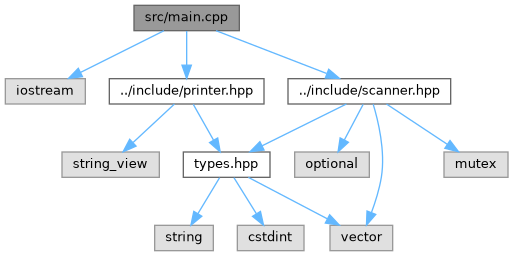
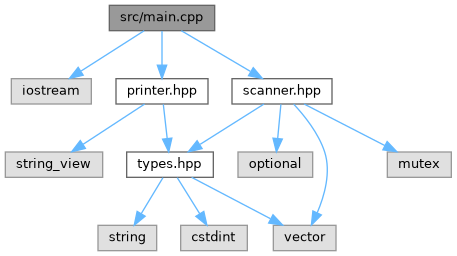
deploy: cdeff2e492ddc5ab5e8fb007a3ab0ef423537df7

diff --git a/main_8cpp.html b/main_8cpp.html
@@ -80,8 +80,8 @@ $(function() {
 </div><!--header-->
 <div class="contents">
 <div class="textblock"><code>#include &lt;iostream&gt;</code><br />
-<code>#include &quot;<a class="el" href="printer_8hpp_source.html">../include/printer.hpp</a>&quot;</code><br />
-<code>#include &quot;<a class="el" href="scanner_8hpp_source.html">../include/scanner.hpp</a>&quot;</code><br />
+<code>#include &quot;<a class="el" href="printer_8hpp_source.html">printer.hpp</a>&quot;</code><br />
+<code>#include &quot;<a class="el" href="scanner_8hpp_source.html">scanner.hpp</a>&quot;</code><br />
 </div><div class="textblock"><div id="dynsection-0" onclick="return toggleVisibility(this)" class="dynheader closed" style="cursor:pointer;">
   <img id="dynsection-0-trigger" src="closed.png" alt="+"/> Include dependency graph for main.cpp:</div>
 <div id="dynsection-0-summary" class="dynsummary" style="display:block;">
@@ -89,29 +89,29 @@ $(function() {
 <div id="dynsection-0-content" class="dyncontent" style="display:none;">
 <div class="center"><img src="main_8cpp__incl.png" border="0" usemap="#asrc_2main_8cpp" alt=""/></div>
 <map name="asrc_2main_8cpp" id="asrc_2main_8cpp">
-<area shape="rect" title=" " alt="" coords="134,5,239,31"/>
-<area shape="rect" title=" " alt="" coords="5,79,85,104"/>
-<area shape="poly" title=" " alt="" coords="165,33,82,75,79,70,163,28"/>
-<area shape="rect" href="printer_8hpp.html" title=" " alt="" coords="109,79,264,104"/>
-<area shape="poly" title=" " alt="" coords="189,31,189,65,184,65,184,31"/>
-<area shape="rect" href="scanner_8hpp.html" title=" " alt="" coords="288,79,451,104"/>
-<area shape="poly" title=" " alt="" coords="217,28,328,71,326,76,215,33"/>
-<area shape="rect" title=" " alt="" coords="62,152,159,177"/>
-<area shape="poly" title=" " alt="" coords="176,106,135,144,131,141,173,102"/>
-<area shape="rect" href="types_8hpp.html" title=" " alt="" coords="183,152,270,177"/>
-<area shape="poly" title=" " alt="" coords="196,103,216,139,211,141,191,106"/>
-<area shape="rect" title=" " alt="" coords="330,225,393,251"/>
-<area shape="poly" title=" " alt="" coords="250,175,328,216,326,221,247,180"/>
-<area shape="rect" title=" " alt="" coords="155,225,213,251"/>
-<area shape="poly" title=" " alt="" coords="222,179,200,215,196,212,217,176"/>
-<area shape="rect" title=" " alt="" coords="237,225,304,251"/>
-<area shape="poly" title=" " alt="" coords="236,176,259,212,254,215,232,179"/>
-<area shape="poly" title=" " alt="" coords="348,106,263,148,261,143,345,102"/>
-<area shape="poly" title=" " alt="" coords="376,104,383,137,384,178,374,213,369,212,379,177,378,137,371,105"/>
-<area shape="rect" title=" " alt="" coords="444,152,508,177"/>
-<area shape="poly" title=" " alt="" coords="388,102,449,142,446,147,385,106"/>
-<area shape="rect" title=" " alt="" coords="295,152,369,177"/>
-<area shape="poly" title=" " alt="" coords="366,106,347,141,342,139,361,103"/>
+<area shape="rect" title=" " alt="" coords="109,5,215,31"/>
+<area shape="rect" title=" " alt="" coords="11,79,91,104"/>
+<area shape="poly" title=" " alt="" coords="146,33,83,73,80,69,143,28"/>
+<area shape="rect" href="printer_8hpp.html" title=" " alt="" coords="116,79,208,104"/>
+<area shape="poly" title=" " alt="" coords="165,31,165,65,159,65,159,31"/>
+<area shape="rect" href="scanner_8hpp.html" title=" " alt="" coords="232,79,332,104"/>
+<area shape="poly" title=" " alt="" coords="183,28,252,69,249,74,180,33"/>
+<area shape="rect" title=" " alt="" coords="5,152,103,177"/>
+<area shape="poly" title=" " alt="" coords="146,106,85,147,82,142,143,102"/>
+<area shape="rect" href="types_8hpp.html" title=" " alt="" coords="127,152,213,177"/>
+<area shape="poly" title=" " alt="" coords="166,104,170,138,165,139,161,105"/>
+<area shape="rect" title=" " alt="" coords="273,225,336,251"/>
+<area shape="poly" title=" " alt="" coords="193,175,272,216,269,221,190,180"/>
+<area shape="rect" title=" " alt="" coords="98,225,157,251"/>
+<area shape="poly" title=" " alt="" coords="165,179,143,215,139,212,161,176"/>
+<area shape="rect" title=" " alt="" coords="181,225,247,251"/>
+<area shape="poly" title=" " alt="" coords="180,176,202,212,197,215,175,179"/>
+<area shape="poly" title=" " alt="" coords="265,106,202,147,199,142,263,102"/>
+<area shape="poly" title=" " alt="" coords="296,102,313,124,327,151,330,167,329,184,320,214,315,212,323,183,325,168,322,153,309,127,292,106"/>
+<area shape="rect" title=" " alt="" coords="387,152,451,177"/>
+<area shape="poly" title=" " alt="" coords="305,102,386,143,384,148,303,106"/>
+<area shape="rect" title=" " alt="" coords="238,152,313,177"/>
+<area shape="poly" title=" " alt="" coords="284,105,280,139,275,138,278,104"/>
 </map>
 </div>
 </div>
@@ -172,7 +172,7 @@ Functions</h2></td></tr>
 </div><!-- contents -->
 <!-- start footer part -->
 <hr class="footer"/><address class="footer"><small>
-Generated on Mon Sep 22 2025 06:30:53 for Port Scanner by&#160;<a href="https://www.doxygen.org/index.html"><img class="footer" src="doxygen.svg" width="104" height="31" alt="doxygen"/></a> 1.9.8
+Generated on Thu Sep 25 2025 06:17:46 for Port Scanner by&#160;<a href="https://www.doxygen.org/index.html"><img class="footer" src="doxygen.svg" width="104" height="31" alt="doxygen"/></a> 1.9.8
 </small></address>
 </body>
 </html>

diff --git a/scanner_8cpp.html b/scanner_8cpp.html
@@ -77,7 +77,7 @@ $(function() {
   <div class="headertitle"><div class="title">scanner.cpp File Reference</div></div>
 </div><!--header-->
 <div class="contents">
-<div class="textblock"><code>#include &quot;<a class="el" href="scanner_8hpp_source.html">../include/scanner.hpp</a>&quot;</code><br />
+<div class="textblock"><code>#include &quot;<a class="el" href="scanner_8hpp_source.html">scanner.hpp</a>&quot;</code><br />
 <code>#include &lt;charconv&gt;</code><br />
 <code>#include &lt;stdexcept&gt;</code><br />
 <code>#include &lt;thread&gt;</code><br />
@@ -94,27 +94,27 @@ $(function() {
 <div id="dynsection-0-content" class="dyncontent" style="display:none;">
 <div class="center"><img src="scanner_8cpp__incl.png" border="0" usemap="#asrc_2scanner_8cpp" alt=""/></div>
 <map name="asrc_2scanner_8cpp" id="asrc_2scanner_8cpp">
-<area shape="rect" title=" " alt="" coords="603,5,725,31"/>
-<area shape="rect" href="scanner_8hpp.html" title=" " alt="" coords="87,79,249,104"/>
-<area shape="poly" title=" " alt="" coords="603,31,262,79,261,74,602,26"/>
-<area shape="rect" title=" " alt="" coords="274,79,355,104"/>
-<area shape="poly" title=" " alt="" coords="607,33,369,81,368,76,606,28"/>
-<area shape="rect" title=" " alt="" coords="379,79,466,104"/>
-<area shape="poly" title=" " alt="" coords="626,33,476,77,474,72,624,28"/>
-<area shape="rect" title=" " alt="" coords="491,79,555,104"/>
-<area shape="poly" title=" " alt="" coords="642,33,559,75,557,70,640,28"/>
-<area shape="rect" title=" " alt="" coords="579,79,645,104"/>
-<area shape="poly" title=" " alt="" coords="658,33,631,69,626,66,653,29"/>
-<area shape="rect" title=" " alt="" coords="670,79,762,104"/>
-<area shape="poly" title=" " alt="" coords="675,29,702,66,697,69,670,33"/>
-<area shape="rect" title=" " alt="" coords="786,79,849,104"/>
-<area shape="poly" title=" " alt="" coords="690,28,781,70,779,75,688,33"/>
-<area shape="rect" title=" " alt="" coords="873,79,943,104"/>
-<area shape="poly" title=" " alt="" coords="704,28,860,73,859,79,702,33"/>
-<area shape="rect" title=" " alt="" coords="967,79,1070,104"/>
-<area shape="poly" title=" " alt="" coords="722,28,954,74,953,80,720,33"/>
-<area shape="rect" title=" " alt="" coords="1095,79,1191,104"/>
-<area shape="poly" title=" " alt="" coords="726,25,1081,76,1080,81,725,30"/>
+<area shape="rect" title=" " alt="" coords="571,5,693,31"/>
+<area shape="rect" href="scanner_8hpp.html" title=" " alt="" coords="118,79,218,104"/>
+<area shape="poly" title=" " alt="" coords="571,30,232,81,231,76,570,25"/>
+<area shape="rect" title=" " alt="" coords="242,79,323,104"/>
+<area shape="poly" title=" " alt="" coords="575,33,337,81,336,76,574,28"/>
+<area shape="rect" title=" " alt="" coords="347,79,434,104"/>
+<area shape="poly" title=" " alt="" coords="594,33,444,77,442,72,592,28"/>
+<area shape="rect" title=" " alt="" coords="459,79,523,104"/>
+<area shape="poly" title=" " alt="" coords="610,33,527,75,525,70,608,28"/>
+<area shape="rect" title=" " alt="" coords="547,79,613,104"/>
+<area shape="poly" title=" " alt="" coords="626,33,599,69,594,66,621,29"/>
+<area shape="rect" title=" " alt="" coords="638,79,730,104"/>
+<area shape="poly" title=" " alt="" coords="643,29,670,66,665,69,638,33"/>
+<area shape="rect" title=" " alt="" coords="754,79,817,104"/>
+<area shape="poly" title=" " alt="" coords="658,28,749,70,747,75,656,33"/>
+<area shape="rect" title=" " alt="" coords="841,79,911,104"/>
+<area shape="poly" title=" " alt="" coords="672,28,828,73,827,79,670,33"/>
+<area shape="rect" title=" " alt="" coords="935,79,1038,104"/>
+<area shape="poly" title=" " alt="" coords="690,28,922,74,921,80,688,33"/>
+<area shape="rect" title=" " alt="" coords="1063,79,1159,104"/>
+<area shape="poly" title=" " alt="" coords="694,25,1049,76,1048,81,693,30"/>
 <area shape="rect" title=" " alt="" coords="5,152,69,177"/>
 <area shape="poly" title=" " alt="" coords="148,106,72,148,69,143,146,102"/>
 <area shape="rect" title=" " alt="" coords="93,152,168,177"/>
@@ -135,7 +135,7 @@ $(function() {
 </div><!-- contents -->
 <!-- start footer part -->
 <hr class="footer"/><address class="footer"><small>
-Generated on Mon Sep 22 2025 06:30:53 for Port Scanner by&#160;<a href="https://www.doxygen.org/index.html"><img class="footer" src="doxygen.svg" width="104" height="31" alt="doxygen"/></a> 1.9.8
+Generated on Thu Sep 25 2025 06:17:46 for Port Scanner by&#160;<a href="https://www.doxygen.org/index.html"><img class="footer" src="doxygen.svg" width="104" height="31" alt="doxygen"/></a> 1.9.8
 </small></address>
 </body>
 </html>

diff --git a/scanner_8cpp_source.html b/scanner_8cpp_source.html
@@ -82,7 +82,7 @@ $(document).ready(function() { init_codefold(0); });
   <div class="headertitle"><div class="title">scanner.cpp</div></div>
 </div><!--header-->
 <div class="contents">
-<a href="scanner_8cpp.html">Go to the documentation of this file.</a><div class="fragment"><div class="line"><a id="l00001" name="l00001"></a><span class="lineno">    1</span><span class="preprocessor">#include &quot;../include/scanner.hpp&quot;</span></div>
+<a href="scanner_8cpp.html">Go to the documentation of this file.</a><div class="fragment"><div class="line"><a id="l00001" name="l00001"></a><span class="lineno">    1</span><span class="preprocessor">#include &quot;<a class="code" href="scanner_8hpp.html">scanner.hpp</a>&quot;</span></div>
 <div class="line"><a id="l00002" name="l00002"></a><span class="lineno">    2</span> </div>
 <div class="line"><a id="l00003" name="l00003"></a><span class="lineno">    3</span><span class="preprocessor">#include &lt;charconv&gt;</span></div>
 <div class="line"><a id="l00004" name="l00004"></a><span class="lineno">    4</span><span class="preprocessor">#include &lt;stdexcept&gt;</span></div>
@@ -202,13 +202,14 @@ $(document).ready(function() { init_codefold(0); });
 <div class="ttc" id="aclassScanner_html_acef562247c88bd0ff7cba0c3cc9c85f4"><div class="ttname"><a href="classScanner.html#acef562247c88bd0ff7cba0c3cc9c85f4">Scanner::Scanner</a></div><div class="ttdeci">Scanner(ipaddr_t const &amp;ip, std::vector&lt; char const * &gt; const &amp;ports)</div><div class="ttdoc">Constructs a Scanner with a target IP address and a vector of ports to scan.</div><div class="ttdef"><b>Definition</b> <a href="scanner_8cpp_source.html#l00015">scanner.cpp:15</a></div></div>
 <div class="ttc" id="aclassScanner_html_af9f6c2887e61333d36bf9771a13ba67f"><div class="ttname"><a href="classScanner.html#af9f6c2887e61333d36bf9771a13ba67f">Scanner::m_ip</a></div><div class="ttdeci">ipaddr_t m_ip</div><div class="ttdoc">Target IP address.</div><div class="ttdef"><b>Definition</b> <a href="scanner_8hpp_source.html#l00055">scanner.hpp:55</a></div></div>
 <div class="ttc" id="anamespaceanonymous__namespace_02scanner_8hpp_03_html_a8f744bb386006bea6840b73769c66f62"><div class="ttname"><a href="namespaceanonymous__namespace_02scanner_8hpp_03.html#a8f744bb386006bea6840b73769c66f62">anonymous_namespace{scanner.hpp}::TIMEOUT_MS</a></div><div class="ttdeci">int constexpr TIMEOUT_MS</div><div class="ttdoc">Timeout in milliseconds for socket connection attempts.</div><div class="ttdef"><b>Definition</b> <a href="scanner_8hpp_source.html#l00010">scanner.hpp:10</a></div></div>
+<div class="ttc" id="ascanner_8hpp_html"><div class="ttname"><a href="scanner_8hpp.html">scanner.hpp</a></div></div>
 <div class="ttc" id="atypes_8hpp_html_a5a82291375f2f68b53a652f6f2ab74b1"><div class="ttname"><a href="types_8hpp.html#a5a82291375f2f68b53a652f6f2ab74b1">ports_t</a></div><div class="ttdeci">std::vector&lt; port_t &gt; ports_t</div><div class="ttdoc">Vector of ports type.</div><div class="ttdef"><b>Definition</b> <a href="types_8hpp_source.html#l00010">types.hpp:10</a></div></div>
 <div class="ttc" id="atypes_8hpp_html_a74951a78c122c2c9903f64726a56aac6"><div class="ttname"><a href="types_8hpp.html#a74951a78c122c2c9903f64726a56aac6">port_t</a></div><div class="ttdeci">uint16_t port_t</div><div class="ttdoc">Port number type.</div><div class="ttdef"><b>Definition</b> <a href="types_8hpp_source.html#l00009">types.hpp:9</a></div></div>
 <div class="ttc" id="atypes_8hpp_html_ae7690576a8d3893435294d25def55c48"><div class="ttname"><a href="types_8hpp.html#ae7690576a8d3893435294d25def55c48">ipaddr_t</a></div><div class="ttdeci">std::string ipaddr_t</div><div class="ttdoc">IP address type.</div><div class="ttdef"><b>Definition</b> <a href="types_8hpp_source.html#l00008">types.hpp:8</a></div></div>
 </div><!-- fragment --></div><!-- contents -->
 <!-- start footer part -->
 <hr class="footer"/><address class="footer"><small>
-Generated on Mon Sep 22 2025 06:30:53 for Port Scanner by&#160;<a href="https://www.doxygen.org/index.html"><img class="footer" src="doxygen.svg" width="104" height="31" alt="doxygen"/></a> 1.9.8
+Generated on Thu Sep 25 2025 06:17:46 for Port Scanner by&#160;<a href="https://www.doxygen.org/index.html"><img class="footer" src="doxygen.svg" width="104" height="31" alt="doxygen"/></a> 1.9.8
 </small></address>
 </body>
 </html>

diff --git a/main_8cpp_source.html b/main_8cpp_source.html
@@ -84,8 +84,8 @@ $(document).ready(function() { init_codefold(0); });
 <div class="contents">
 <a href="main_8cpp.html">Go to the documentation of this file.</a><div class="fragment"><div class="line"><a id="l00001" name="l00001"></a><span class="lineno">    1</span><span class="preprocessor">#include &lt;iostream&gt;</span></div>
 <div class="line"><a id="l00002" name="l00002"></a><span class="lineno">    2</span> </div>
-<div class="line"><a id="l00003" name="l00003"></a><span class="lineno">    3</span><span class="preprocessor">#include &quot;../include/printer.hpp&quot;</span></div>
-<div class="line"><a id="l00004" name="l00004"></a><span class="lineno">    4</span><span class="preprocessor">#include &quot;../include/scanner.hpp&quot;</span></div>
+<div class="line"><a id="l00003" name="l00003"></a><span class="lineno">    3</span><span class="preprocessor">#include &quot;<a class="code" href="printer_8hpp.html">printer.hpp</a>&quot;</span></div>
+<div class="line"><a id="l00004" name="l00004"></a><span class="lineno">    4</span><span class="preprocessor">#include &quot;<a class="code" href="scanner_8hpp.html">scanner.hpp</a>&quot;</span></div>
 <div class="line"><a id="l00005" name="l00005"></a><span class="lineno">    5</span> </div>
 <div class="foldopen" id="foldopen00006" data-start="{" data-end="}">
 <div class="line"><a id="l00006" name="l00006"></a><span class="lineno"><a class="line" href="main_8cpp.html#a0ddf1224851353fc92bfbff6f499fa97">    6</a></span><span class="keywordtype">int</span> <a class="code hl_function" href="main_8cpp.html#a0ddf1224851353fc92bfbff6f499fa97">main</a>(<span class="keywordtype">int</span> argc, <span class="keywordtype">char</span> *argv[]) {</div>
@@ -120,11 +120,13 @@ $(document).ready(function() { init_codefold(0); });
 <div class="ttc" id="aclassPrinter_html_a07386ac3a06a838329a1dbb49b5add69"><div class="ttname"><a href="classPrinter.html#a07386ac3a06a838329a1dbb49b5add69">Printer::print</a></div><div class="ttdeci">static void print(std::vector&lt; std::pair&lt; port_t, bool &gt; &gt; const &amp;ports)</div><div class="ttdoc">Prints to stdout the formated information about the ports accessibility.</div><div class="ttdef"><b>Definition</b> <a href="printer_8cpp_source.html#l00011">printer.cpp:11</a></div></div>
 <div class="ttc" id="aclassScanner_html"><div class="ttname"><a href="classScanner.html">Scanner</a></div><div class="ttdef"><b>Definition</b> <a href="scanner_8hpp_source.html#l00021">scanner.hpp:21</a></div></div>
 <div class="ttc" id="amain_8cpp_html_a0ddf1224851353fc92bfbff6f499fa97"><div class="ttname"><a href="main_8cpp.html#a0ddf1224851353fc92bfbff6f499fa97">main</a></div><div class="ttdeci">int main(int argc, char *argv[])</div><div class="ttdef"><b>Definition</b> <a href="main_8cpp_source.html#l00006">main.cpp:6</a></div></div>
+<div class="ttc" id="aprinter_8hpp_html"><div class="ttname"><a href="printer_8hpp.html">printer.hpp</a></div></div>
+<div class="ttc" id="ascanner_8hpp_html"><div class="ttname"><a href="scanner_8hpp.html">scanner.hpp</a></div></div>
 <div class="ttc" id="atypes_8hpp_html_ae7690576a8d3893435294d25def55c48"><div class="ttname"><a href="types_8hpp.html#ae7690576a8d3893435294d25def55c48">ipaddr_t</a></div><div class="ttdeci">std::string ipaddr_t</div><div class="ttdoc">IP address type.</div><div class="ttdef"><b>Definition</b> <a href="types_8hpp_source.html#l00008">types.hpp:8</a></div></div>
 </div><!-- fragment --></div><!-- contents -->
 <!-- start footer part -->
 <hr class="footer"/><address class="footer"><small>
-Generated on Mon Sep 22 2025 06:30:53 for Port Scanner by&#160;<a href="https://www.doxygen.org/index.html"><img class="footer" src="doxygen.svg" width="104" height="31" alt="doxygen"/></a> 1.9.8
+Generated on Thu Sep 25 2025 06:17:46 for Port Scanner by&#160;<a href="https://www.doxygen.org/index.html"><img class="footer" src="doxygen.svg" width="104" height="31" alt="doxygen"/></a> 1.9.8
 </small></address>
 </body>
 </html>

diff --git a/printer_8cpp_source.html b/printer_8cpp_source.html
@@ -82,7 +82,7 @@ $(document).ready(function() { init_codefold(0); });
   <div class="headertitle"><div class="title">printer.cpp</div></div>
 </div><!--header-->
 <div class="contents">
-<a href="printer_8cpp.html">Go to the documentation of this file.</a><div class="fragment"><div class="line"><a id="l00001" name="l00001"></a><span class="lineno">    1</span><span class="preprocessor">#include &quot;../include/printer.hpp&quot;</span></div>
+<a href="printer_8cpp.html">Go to the documentation of this file.</a><div class="fragment"><div class="line"><a id="l00001" name="l00001"></a><span class="lineno">    1</span><span class="preprocessor">#include &quot;<a class="code" href="printer_8hpp.html">printer.hpp</a>&quot;</span></div>
 <div class="line"><a id="l00002" name="l00002"></a><span class="lineno">    2</span> </div>
 <div class="line"><a id="l00003" name="l00003"></a><span class="lineno">    3</span><span class="preprocessor">#include &lt;print&gt;</span></div>
 <div class="line"><a id="l00004" name="l00004"></a><span class="lineno">    4</span> </div>
@@ -113,10 +113,11 @@ $(document).ready(function() { init_codefold(0); });
 <div class="ttc" id="anamespaceanonymous__namespace_02printer_8hpp_03_html_a4b80f77ce431d4b9057292d99edb8be0"><div class="ttname"><a href="namespaceanonymous__namespace_02printer_8hpp_03.html#a4b80f77ce431d4b9057292d99edb8be0">anonymous_namespace{printer.hpp}::RED</a></div><div class="ttdeci">std::string_view constexpr RED</div><div class="ttdoc">ANSI escape code for red text color.</div><div class="ttdef"><b>Definition</b> <a href="printer_8hpp_source.html#l00016">printer.hpp:16</a></div></div>
 <div class="ttc" id="anamespaceanonymous__namespace_02printer_8hpp_03_html_a9549ef75431543971e79ea91e5f68130"><div class="ttname"><a href="namespaceanonymous__namespace_02printer_8hpp_03.html#a9549ef75431543971e79ea91e5f68130">anonymous_namespace{printer.hpp}::GREEN</a></div><div class="ttdeci">std::string_view constexpr GREEN</div><div class="ttdoc">ANSI escape code for green text color.</div><div class="ttdef"><b>Definition</b> <a href="printer_8hpp_source.html#l00021">printer.hpp:21</a></div></div>
 <div class="ttc" id="anamespaceanonymous__namespace_02printer_8hpp_03_html_aa4262232780e639fd9cb7fb616a0f5b8"><div class="ttname"><a href="namespaceanonymous__namespace_02printer_8hpp_03.html#aa4262232780e639fd9cb7fb616a0f5b8">anonymous_namespace{printer.hpp}::RESET</a></div><div class="ttdeci">std::string_view constexpr RESET</div><div class="ttdoc">ANSI escape code for resetting terminal colors.</div><div class="ttdef"><b>Definition</b> <a href="printer_8hpp_source.html#l00011">printer.hpp:11</a></div></div>
+<div class="ttc" id="aprinter_8hpp_html"><div class="ttname"><a href="printer_8hpp.html">printer.hpp</a></div></div>
 </div><!-- fragment --></div><!-- contents -->
 <!-- start footer part -->
 <hr class="footer"/><address class="footer"><small>
-Generated on Mon Sep 22 2025 06:30:53 for Port Scanner by&#160;<a href="https://www.doxygen.org/index.html"><img class="footer" src="doxygen.svg" width="104" height="31" alt="doxygen"/></a> 1.9.8
+Generated on Thu Sep 25 2025 06:17:46 for Port Scanner by&#160;<a href="https://www.doxygen.org/index.html"><img class="footer" src="doxygen.svg" width="104" height="31" alt="doxygen"/></a> 1.9.8
 </small></address>
 </body>
 </html>

diff --git a/printer_8cpp.html b/printer_8cpp.html
@@ -77,7 +77,7 @@ $(function() {
   <div class="headertitle"><div class="title">printer.cpp File Reference</div></div>
 </div><!--header-->
 <div class="contents">
-<div class="textblock"><code>#include &quot;<a class="el" href="printer_8hpp_source.html">../include/printer.hpp</a>&quot;</code><br />
+<div class="textblock"><code>#include &quot;<a class="el" href="printer_8hpp_source.html">printer.hpp</a>&quot;</code><br />
 <code>#include &lt;print&gt;</code><br />
 <code>#include &lt;unistd.h&gt;</code><br />
 </div><div class="textblock"><div id="dynsection-0" onclick="return toggleVisibility(this)" class="dynheader closed" style="cursor:pointer;">
@@ -87,13 +87,13 @@ $(function() {
 <div id="dynsection-0-content" class="dyncontent" style="display:none;">
 <div class="center"><img src="printer_8cpp__incl.png" border="0" usemap="#asrc_2printer_8cpp" alt=""/></div>
 <map name="asrc_2printer_8cpp" id="asrc_2printer_8cpp">
-<area shape="rect" title=" " alt="" coords="182,5,297,31"/>
-<area shape="rect" href="printer_8hpp.html" title=" " alt="" coords="34,79,189,104"/>
-<area shape="poly" title=" " alt="" coords="220,33,146,74,143,69,217,28"/>
-<area shape="rect" title=" " alt="" coords="213,79,265,104"/>
-<area shape="poly" title=" " alt="" coords="242,31,242,65,237,65,237,31"/>
-<area shape="rect" title=" " alt="" coords="290,79,365,104"/>
-<area shape="poly" title=" " alt="" coords="255,29,304,68,301,72,252,33"/>
+<area shape="rect" title=" " alt="" coords="150,5,265,31"/>
+<area shape="rect" href="printer_8hpp.html" title=" " alt="" coords="65,79,157,104"/>
+<area shape="poly" title=" " alt="" coords="193,33,140,72,137,68,190,29"/>
+<area shape="rect" title=" " alt="" coords="181,79,233,104"/>
+<area shape="poly" title=" " alt="" coords="210,31,210,65,205,65,205,31"/>
+<area shape="rect" title=" " alt="" coords="258,79,333,104"/>
+<area shape="poly" title=" " alt="" coords="223,29,272,68,269,72,220,33"/>
 <area shape="rect" title=" " alt="" coords="5,152,103,177"/>
 <area shape="poly" title=" " alt="" coords="104,106,74,143,70,139,100,103"/>
 <area shape="rect" href="types_8hpp.html" title=" " alt="" coords="127,152,213,177"/>
@@ -111,7 +111,7 @@ $(function() {
 </div><!-- contents -->
 <!-- start footer part -->
 <hr class="footer"/><address class="footer"><small>
-Generated on Mon Sep 22 2025 06:30:53 for Port Scanner by&#160;<a href="https://www.doxygen.org/index.html"><img class="footer" src="doxygen.svg" width="104" height="31" alt="doxygen"/></a> 1.9.8
+Generated on Thu Sep 25 2025 06:17:46 for Port Scanner by&#160;<a href="https://www.doxygen.org/index.html"><img class="footer" src="doxygen.svg" width="104" height="31" alt="doxygen"/></a> 1.9.8
 </small></address>
 </body>
 </html>

diff --git a/dir_000001_000000.html b/dir_000001_000000.html
@@ -77,7 +77,7 @@ $(function() {
 <h3>src &rarr; include Relation</h3><table class="dirtab"><tr class="dirtab"><th class="dirtab">File in src</th><th class="dirtab">Includes file in include</th></tr><tr class="dirtab"><td class="dirtab"><a class="el" href="main_8cpp.html">main.cpp</a></td><td class="dirtab"><a class="el" href="printer_8hpp.html">printer.hpp</a></td></tr><tr class="dirtab"><td class="dirtab"><a class="el" href="main_8cpp.html">main.cpp</a></td><td class="dirtab"><a class="el" href="scanner_8hpp.html">scanner.hpp</a></td></tr><tr class="dirtab"><td class="dirtab"><a class="el" href="printer_8cpp.html">printer.cpp</a></td><td class="dirtab"><a class="el" href="printer_8hpp.html">printer.hpp</a></td></tr><tr class="dirtab"><td class="dirtab"><a class="el" href="scanner_8cpp.html">scanner.cpp</a></td><td class="dirtab"><a class="el" href="scanner_8hpp.html">scanner.hpp</a></td></tr></table></div><!-- contents -->
 <!-- start footer part -->
 <hr class="footer"/><address class="footer"><small>
-Generated on Mon Sep 22 2025 06:30:53 for Port Scanner by&#160;<a href="https://www.doxygen.org/index.html"><img class="footer" src="doxygen.svg" width="104" height="31" alt="doxygen"/></a> 1.9.8
+Generated on Thu Sep 25 2025 06:17:46 for Port Scanner by&#160;<a href="https://www.doxygen.org/index.html"><img class="footer" src="doxygen.svg" width="104" height="31" alt="doxygen"/></a> 1.9.8
 </small></address>
 </body>
 </html>

diff --git a/graph_legend.html b/graph_legend.html
@@ -136,7 +136,7 @@ A yellow dashed arrow denotes a relation between a template instance and the tem
 </div><!-- contents -->
 <!-- start footer part -->
 <hr class="footer"/><address class="footer"><small>
-Generated on Mon Sep 22 2025 06:30:53 for Port Scanner by&#160;<a href="https://www.doxygen.org/index.html"><img class="footer" src="doxygen.svg" width="104" height="31" alt="doxygen"/></a> 1.9.8
+Generated on Thu Sep 25 2025 06:17:46 for Port Scanner by&#160;<a href="https://www.doxygen.org/index.html"><img class="footer" src="doxygen.svg" width="104" height="31" alt="doxygen"/></a> 1.9.8
 </small></address>
 </body>
 </html>

diff --git a/printer_8hpp_source.html b/printer_8hpp_source.html
@@ -116,7 +116,7 @@ $(document).ready(function() { init_codefold(0); });
 </div><!-- fragment --></div><!-- contents -->
 <!-- start footer part -->
 <hr class="footer"/><address class="footer"><small>
-Generated on Mon Sep 22 2025 06:30:53 for Port Scanner by&#160;<a href="https://www.doxygen.org/index.html"><img class="footer" src="doxygen.svg" width="104" height="31" alt="doxygen"/></a> 1.9.8
+Generated on Thu Sep 25 2025 06:17:46 for Port Scanner by&#160;<a href="https://www.doxygen.org/index.html"><img class="footer" src="doxygen.svg" width="104" height="31" alt="doxygen"/></a> 1.9.8
 </small></address>
 </body>
 </html>

diff --git a/scanner_8hpp_source.html b/scanner_8hpp_source.html
@@ -145,7 +145,7 @@ $(document).ready(function() { init_codefold(0); });
 </div><!-- fragment --></div><!-- contents -->
 <!-- start footer part -->
 <hr class="footer"/><address class="footer"><small>
-Generated on Mon Sep 22 2025 06:30:53 for Port Scanner by&#160;<a href="https://www.doxygen.org/index.html"><img class="footer" src="doxygen.svg" width="104" height="31" alt="doxygen"/></a> 1.9.8
+Generated on Thu Sep 25 2025 06:17:46 for Port Scanner by&#160;<a href="https://www.doxygen.org/index.html"><img class="footer" src="doxygen.svg" width="104" height="31" alt="doxygen"/></a> 1.9.8
 </small></address>
 </body>
 </html>

diff --git a/types_8hpp_source.html b/types_8hpp_source.html
@@ -98,7 +98,7 @@ $(document).ready(function() { init_codefold(0); });
 </div><!-- fragment --></div><!-- contents -->
 <!-- start footer part -->
 <hr class="footer"/><address class="footer"><small>
-Generated on Mon Sep 22 2025 06:30:53 for Port Scanner by&#160;<a href="https://www.doxygen.org/index.html"><img class="footer" src="doxygen.svg" width="104" height="31" alt="doxygen"/></a> 1.9.8
+Generated on Thu Sep 25 2025 06:17:46 for Port Scanner by&#160;<a href="https://www.doxygen.org/index.html"><img class="footer" src="doxygen.svg" width="104" height="31" alt="doxygen"/></a> 1.9.8
 </small></address>
 </body>
 </html>

diff --git a/classPrinter.html b/classPrinter.html
@@ -225,7 +225,7 @@ Static Public Member Functions</h2></td></tr>
 </div><!-- contents -->
 <!-- start footer part -->
 <hr class="footer"/><address class="footer"><small>
-Generated on Mon Sep 22 2025 06:30:53 for Port Scanner by&#160;<a href="https://www.doxygen.org/index.html"><img class="footer" src="doxygen.svg" width="104" height="31" alt="doxygen"/></a> 1.9.8
+Generated on Thu Sep 25 2025 06:17:46 for Port Scanner by&#160;<a href="https://www.doxygen.org/index.html"><img class="footer" src="doxygen.svg" width="104" height="31" alt="doxygen"/></a> 1.9.8
 </small></address>
 </body>
 </html>
